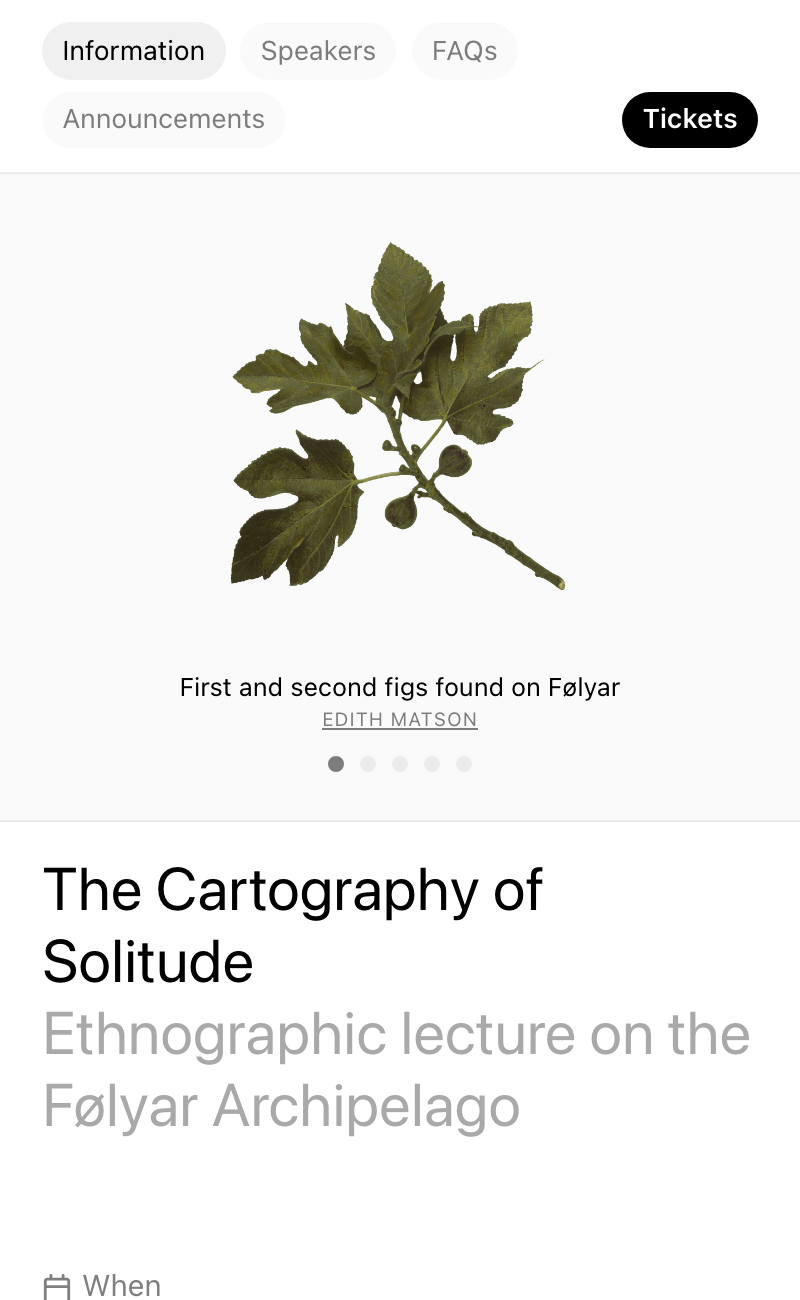
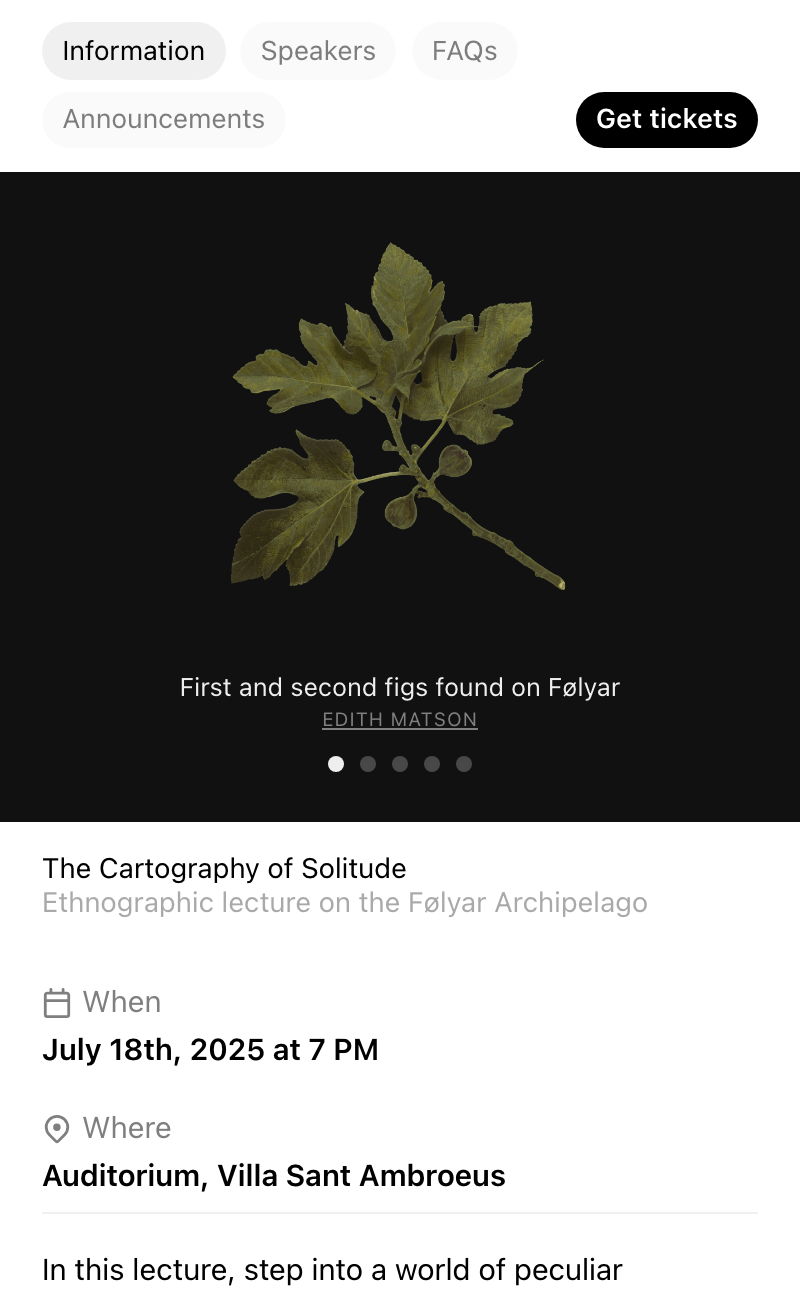
Expose Event template settings as dashboard controls

diff --git a/app/templates/source/event/style.css b/app/templates/source/event/style.css
@@ -3,6 +3,7 @@
 /* Injected styles from templates and external sources */
 {{{app_css}}}
 {{{body_font.styles}}}
+{{{heading_font.styles}}}
 {{{syntax_highlighter.styles}}}
 {{> flickity.css}}
 
@@ -13,6 +14,11 @@
   --font-size: {{{font_size}}}px;
   --line-height: {{{line_height}}};
   {{/body_font}}
+  {{#heading_font}}
+  --heading-font-family: {{{stack}}};
+  --heading-font-size: {{{font_size}}}px;
+  --heading-line-height: {{{line_height}}};
+  {{/heading_font}}
   --background-color: {{background_color}};
   --text-color: {{text_color}};
   --off-background-color: rgba({{#rgb}}{{text_color}}{{/rgb}}, 0.02);
@@ -24,7 +30,7 @@
   --caption-height: 2.6rem;
   --slides-width: 50vw;
   --slides-height: 100vh;
-  --padding: 1.4rem;
+  --padding: calc({{spacing}} * 1.4rem);
 }
 
 /* Dark mode variables */
@@ -62,14 +68,16 @@ small { color: var(--light-text-color); }
 }
 
 /* TYPOGRAPHY */
+h1, h2 {
+  font-family: var(--heading-font-family);
+  font-size: clamp(9px, 3.5vw, var(--heading-font-size));
+  line-height: var(--heading-line-height);
+}
 h1 {
-  margin: 0; font-weight: 400; line-height: 1.2;
+  margin: 0; font-weight: 400;
 }
 h1 + h2 {
-  opacity: 0.3333; margin: 0; line-height: 1.2; margin-bottom: clamp(2em, 3.5vw, 3em);
-}
-h1, h2 {
-  font-size: clamp(2em, 3.5vw, 3em);
+  opacity: 0.3333; margin: 0; margin-bottom: clamp(2em, 3.5vw, 3em);
 }
 h2 {
   font-weight: 400; margin: 4em 0 0 0;
@@ -93,12 +101,49 @@ hr { border: none; border-bottom: 1px solid var(--border-color); clear: both; }
 .site-header { display: flex; }
 
 
+/* SITE HEADER */
+.site-header {
+  display: flex;
+}
+.site-title {
+  text-decoration: none;
+  padding: 1em 0;
+  font-size: 0.9em;
+  display: flex;
+  align-items: center;
+  gap: 0.5em;
+  font-family: var(--heading-font-family);
+}
+.site-logo {
+  height: 1.4em;
+  width: auto;
+  display: block;
+}
+
 /* NAVIGATION */
 .navigation {
-  display: flex; flex-wrap: wrap; justify-content: flex-start; gap: 0.5em;
-  align-items: center; position: sticky; background: var(--background-color);
-  padding: 0.75em 0; top: 0; z-index: 1000;
+  display: flex; flex-wrap: wrap; gap: 0.5em;
+  align-items: center; background: var(--background-color);
+  padding: 0.75em 0; z-index: 1000;
   overflow-x: auto; -webkit-overflow-scrolling: touch;
+  {{#sticky_navigation}}
+  position: sticky; top: 0;
+  {{/sticky_navigation}}
+  {{^sticky_navigation}}
+  position: relative;
+  {{/sticky_navigation}}
+  {{#is.navigation_alignment.left}}
+  justify-content: flex-start;
+  {{/is.navigation_alignment.left}}
+  {{#is.navigation_alignment.right}}
+  justify-content: flex-end;
+  {{/is.navigation_alignment.right}}
+  {{#is.navigation_alignment.center}}
+  justify-content: center;
+  {{/is.navigation_alignment.center}}
+  {{#is.navigation_alignment.justified}}
+  justify-content: space-between;
+  {{/is.navigation_alignment.justified}}
 }
 .navigation a {
   text-decoration: none; font-size: 0.9em; margin-bottom: -1px;
@@ -110,7 +155,10 @@ hr { border: none; border-bottom: 1px solid var(--border-color); clear: both; }
   color: var(--text-color); background-color: var(--border-color);
 }
 .navigation a[href="{{{call_to_action}}}"] {
-  margin-left: auto; font-weight: 600; color: var(--background-color); background: var(--link-color);
+  font-weight: 600; color: var(--background-color); background: var(--link-color);
+  {{#is.navigation_alignment.left}}
+  margin-left: auto;
+  {{/is.navigation_alignment.left}}
 }
 
 /* IMAGE STYLING */
@@ -261,6 +309,9 @@ kbd {
   position: sticky; top: 0; background: var(--off-background-color);
   box-sizing: border-box;
   border-right: 1px solid var(--border-color);
+  {{#dark_slides_background}}
+  background: {{dark_background_color}};
+  {{/dark_slides_background}}
 }
 
 .main-carousel {
@@ -281,6 +332,9 @@ kbd {
   bottom: 0; left: 0; font-size: 0.85em; right: 0; text-align: center; cursor: auto;
   margin: 0 2rem; display: flex; flex-direction: column; align-items: center;
   justify-content: center; gap: 0.15em; line-height: 1.25; box-sizing: border-box;
+  {{#dark_slides_background}}
+  color: {{dark_text_color}};
+  {{/dark_slides_background}}
 }
 .slide-caption-text {
   display: block; max-width: 100%;
@@ -289,6 +343,9 @@ kbd {
 .slide-caption-credit {
   display: block; color: var(--text-color); font-size: 0.75em;
   text-transform: uppercase; letter-spacing: 0.04em; opacity: 0.5;
+  {{#dark_slides_background}}
+  color: {{dark_text_color}};
+  {{/dark_slides_background}}
 }
 
 .flickity-page-dots {
@@ -307,13 +364,25 @@ kbd {
   background-color: var(--border-color);
   border-radius: 50%;
   transition: background-color 0.2s;
+  {{#dark_slides_background}}
+  background-color: rgba({{#rgb}}{{dark_text_color}}{{/rgb}}, 0.25);
+  {{/dark_slides_background}}
 }
 
 .flickity-page-dots .dot:hover:after { background-color: var(--light-text-color); }
 
 .flickity-page-dots .dot.is-selected:after {
   background-color: var(--light-text-color);
+  {{#dark_slides_background}}
+  background-color: {{dark_text_color}};
+  {{/dark_slides_background}}
 }
+
+{{#dark_slides_background}}
+.flickity-page-dots .dot:hover:after {
+  background-color: {{dark_text_color}};
+}
+{{/dark_slides_background}}
 
 .flickity-prev-next-button.previous, .flickity-prev-next-button.next {
   top: 0; width: auto; height: auto; bottom: calc(var(--dots-height) + var(--caption-height)); background: transparent;
@@ -355,7 +424,10 @@ kbd {
 /* RESPONSIVE STYLES */
 @media screen and (max-width: 1000px) {
   .navigation {
-    position: fixed; left: 0; padding-left: var(--padding); padding-right: var(--padding); right: 0;
+    left: 0; padding-left: var(--padding); padding-right: var(--padding); right: 0;
+    {{#sticky_navigation}}
+    position: fixed;
+    {{/sticky_navigation}}
   }
   .collapse-on-mobile { flex-direction: column; }
 
@@ -366,7 +438,12 @@ kbd {
 
   .slides {
     position: relative; 
+    {{#sticky_navigation}}
     margin: 3.5em 0 1em;
+    {{/sticky_navigation}}
+    {{^sticky_navigation}}
+    margin: 0 0 1em;
+    {{/sticky_navigation}}
     border-right: none; border-bottom: 1px solid var(--border-color); border-top: 1px solid var(--border-color);
   }
   
@@ -375,8 +452,10 @@ kbd {
 
 @media screen and (max-width: 640px) {
   /* Wrapped nav is two rows; keep slide-less pages (Speakers, FAQs) clear too. */
+  {{#sticky_navigation}}
   .slides,
   .site-header {
     margin-top: 5.75em;
   }
+  {{/sticky_navigation}}
 }

diff --git a/app/templates/source/event/entries.html b/app/templates/source/event/entries.html
@@ -1,25 +1,25 @@
 {{> head}}
 <div class="site-header">
-
     <div style="width:50%;" class="main">
-        <a href="/" style="text-decoration: none;padding: 1em 0;font-size: 0.9em;display: block;">{{title}}</a>
+        <a href="/" class="site-title">{{#logo_url}}<img src="{{{logo_url}}}" alt="" class="site-logo">{{/logo_url}}{{title}}</a>
      </div>
     <div style="width:50%;" class="main">
         {{> navigation}}
      </div>
-    </div>
+</div>
     <div class="main">
          <div class="fade-in entry">
             <br>
             {{#posts}}
-            <center><small>{{date}}</small></center>
+            {{^hide_dates}}
+            {{#date}}<center><small>{{#formatDate}}{{date_display}}{{/formatDate}}</small></center>{{/date}}
+            {{/hide_dates}}
             <div class="announcement">
                 {{{html}}}
             </div>
             {{/posts}}
          </div>
      </div>
-</div>
 
 
 {{> footer}}

diff --git a/app/templates/source/event/head.html b/app/templates/source/event/head.html
@@ -14,7 +14,8 @@
     {{^entry}}<meta name="description" content="{{> description}}">{{/entry}}
 
     <link rel="alternate" type="application/rss+xml" title="RSS Feed for {{title}}" href="{{{siteURL}}}{{{feedURL}}}">
-    {{#avatar}}<link rel="icon" href="{{{avatar}}}" type="image/x-icon">{{/avatar}}
+    {{#favicon_url}}<link rel="icon" href="{{{favicon_url}}}" type="image/x-icon">{{/favicon_url}}
+    {{^favicon_url}}{{#avatar}}<link rel="icon" href="{{{avatar}}}" type="image/x-icon">{{/avatar}}{{/favicon_url}}
     <link rel="preconnect" href="{{{cdn}}}" />
     <link rel="stylesheet" href="{{#cdn}}/style.css{{/cdn}}">
 

diff --git a/app/templates/source/event/entry.html b/app/templates/source/event/entry.html
@@ -43,7 +43,7 @@
 <div class="site-header">
 
 <div style="width:50%;" class="main">
-    <a href="/" style="text-decoration: none;padding: 1em 0;font-size: 0.9em;display: block;">{{title}}</a>
+    <a href="/" class="site-title">{{#logo_url}}<img src="{{{logo_url}}}" alt="" class="site-logo">{{/logo_url}}{{title}}</a>
 </div>
 <div style="width:50%;" class="main">
     {{> navigation}}
@@ -54,4 +54,5 @@
         {{{entry.html}}}
      </div>
  </div> 
+ {{> footer}}
  {{/entry.metadata.slides.length}}
